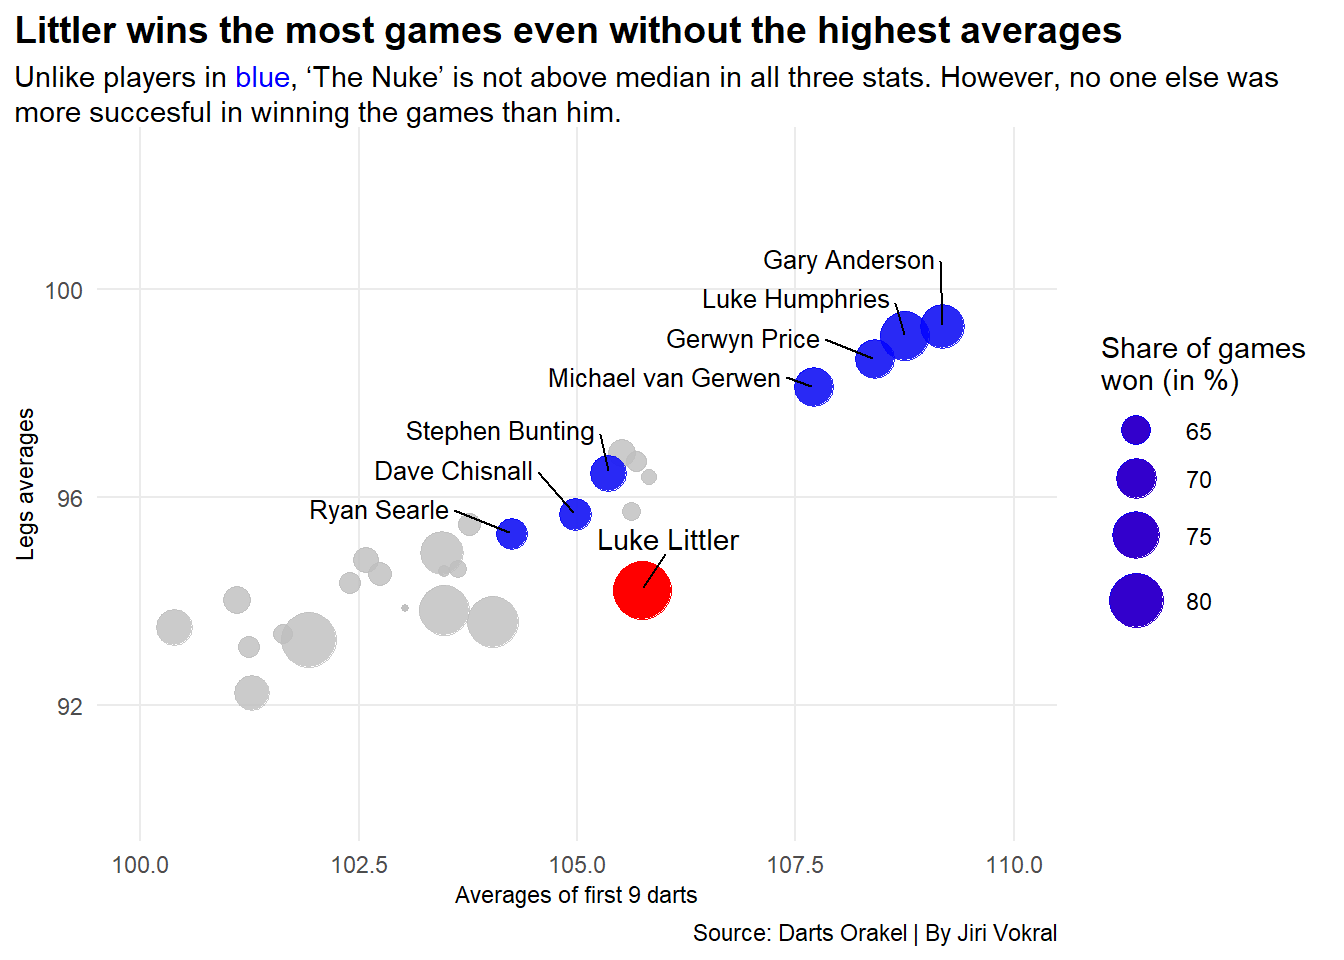
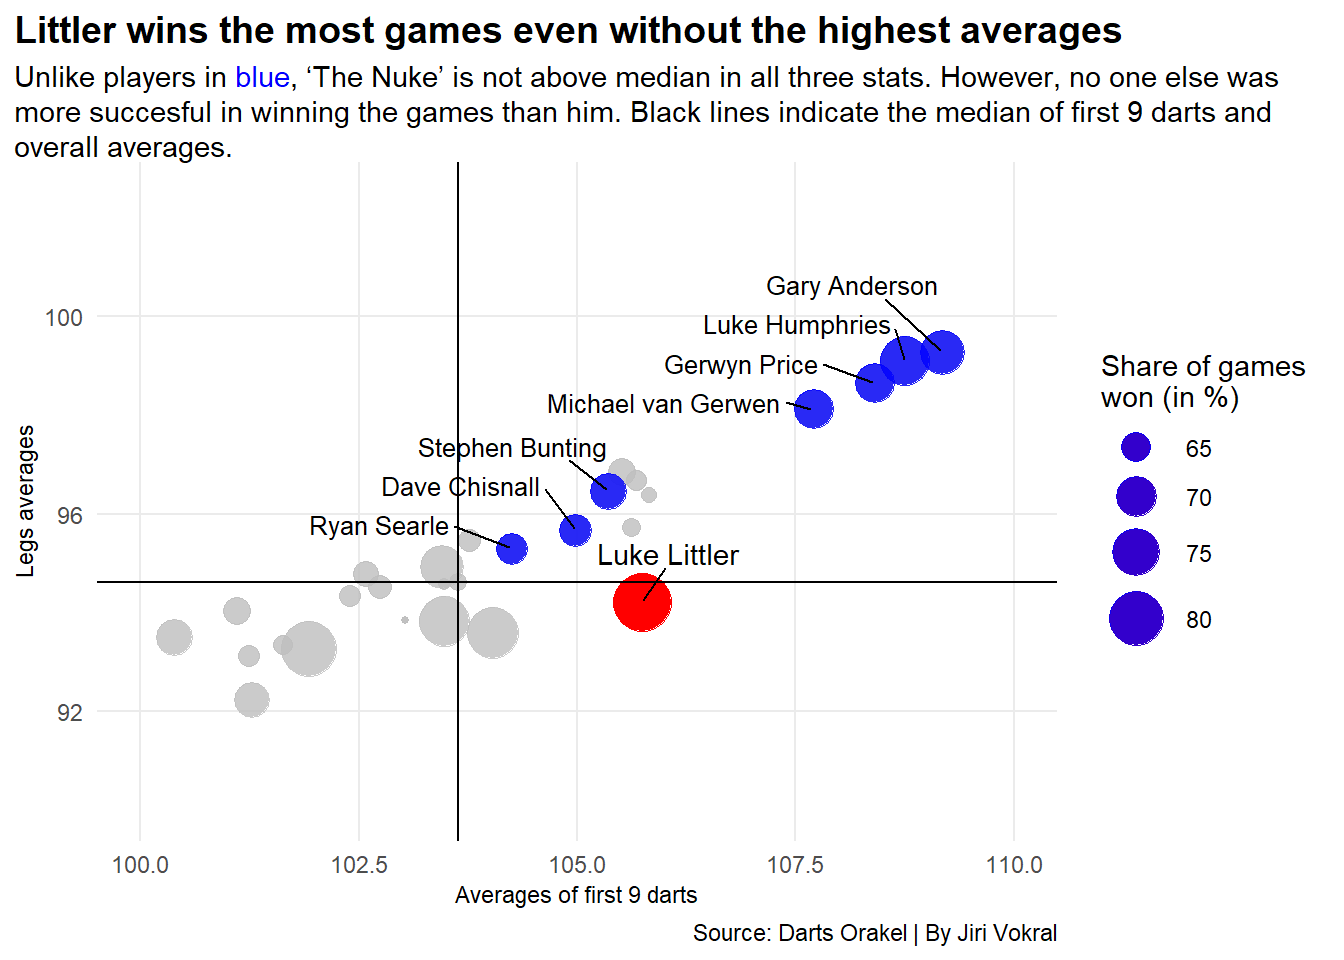
Update commit #4

diff --git a/posts/luke-littler-darts/index.html b/posts/luke-littler-darts/index.html
@@ -185,9 +185,9 @@ pre > code.sourceCode > span > a:first-child::before { text-decoration: underlin
 
 
 
-<p>“Triple twenty will leave him double ten. And he finishes it on double ten! Luke Littler by name, but right now arguably the biggest name in the world of darts. Littler takes the giant step into the World Championship final. He made it nineteen days shy of his 17th birthday, and tomorrow he could be the World Darts Champion!”</p>
-<p>At the turn of last year and this year, the entire world of darts learned to count on a new rising star. Luke Littler made it to the World Championship final at the age of 16. He had to go through all the rounds to reach the final as he was not seeded due to his position in the world rankings.</p>
-<p>The youngster with the nickname “The Nuke” was already good before the World Championship. And he continues to be in great form. Let’s take a look at the data from the end of March 2023 to the end of March 2024 and compare him with the 112 best players in the world.</p>
+<p>At the turn of last year and this year, millions of fans around the world heard on Sky Sports broadcast: “Triple twenty will leave him double ten. And he finishes it on double ten! Luke Littler by name, but right now arguably the biggest name in the world of darts. Littler takes the giant step into the World Championship final. He made it nineteen days shy of his 17th birthday, and tomorrow he could be the World Darts Champion!”</p>
+<p>The entire world of darts learned to count on a new rising star. Luke Littler made it to the World Championship final at the age of 16. He had to go through all of the rounds to reach the finals as he was not seeded due to his position in the world rankings.</p>
+<p>The youngster, with the nickname “The Nuke”, was already good before the World Championship, and he continues to be in great form. Data from the end of March 2023 to the end of March 2024, that compare him with the 112 best players in the world, show how good he actually was.</p>
 <div class="cell">
 <details class="code-fold">
 <summary>Code</summary>
@@ -246,16 +246,16 @@ pre > code.sourceCode > span > a:first-child::before { text-decoration: underlin
 </div>
 </div>
 </div>
-<p>He won more than 77 percent of those legs. That’s five percentage points more than world number one Humphries or six more than three-time world champion and world number two Michael van Gerwen. On the occasions when he went to the dartboard second, his success rate dropped to 52.67 percent. But that is the second-best result of all.</p>
+<p>He won more than 77 percent of those legs. That’s five percentage points more than world number one Luke Humphries and six more than three-time world champion and world number two Michael van Gerwen. Littler’s success rate dropped to 52.67 percent on the occasions when he went to the dartboard second. However, that is still the second-best result of all the players.</p>
 <p>“The Nuke” sent one opponent after another home at the World Championship. When he faced the legendary Raymond van Barneveld in the round of sixteen, the pundits didn’t give Littler much of a chance. But they were wrong. Littler defeated the former world number one and world champion 4:1.</p>
-<p>Even Brendan Dolan or world number eight and former world champion Rob Cross couldn’t send him home.</p>
-<p>Littler led 4-2 in the final. He became the darling of the fans, who chanted, “You’ve got school in the morning, school in the morning!”</p>
-<p>But in the end, Luke Humphries turned the dramatic finals around and became the World Champion and world number one. But Littler’s performance earned him an invitation to Premier League Darts, a select company of the best darts players who would meet in fifteen tournaments throughout the spring.</p>
+<p>Even Brendan Dolan and world number eight and former world champion Rob Cross couldn’t send him home.</p>
+<p>Littler led 4:2 in the final. He became the darling of the fans, who chanted, “You’ve got school in the morning, school in the morning!”</p>
+<p>But in the end, Luke Humphries turned the dramatic finals around and became the world champion and world number one. But Littler’s performance earned him an invitation to Premier League Darts, a select company of the best darts players who would meet in fifteen tournaments throughout the spring.</p>
 <p>In eleven tournaments so far, he has reached the finals four times and won twice. As a result, Littler currently leads the overall standings in the highly prestigious Premier League.</p>
 <p>So, is “The Nuke” the best player in the world right now?</p>
-<p>“No.&nbsp;No way,” Littler said when journalists asked him that question earlier this year. “You still got Luke Humphries in there, you still got Michael van Gerwen in there. I’m one of the best right now in terms of performance, but I’m not the best in the world,” he added.</p>
+<p>“No.&nbsp;No way,” Littler said when he was asked this question after one of the matches at the World Championship. “You still got Luke Humphries in there, you still got Michael van Gerwen in there. I’m one of the best right now in terms of performance, but I’m not the best in the world,” he added.</p>
 <p>Well.</p>
-<p>Littler had the highest winning percentage during the whole year. He played a total of 398 games (by far the most of all players, the second-highest result is 339), of which he won 333. This means that he won more than 83 percent of all his games.</p>
+<p>Littler had the highest winning percentage during the whole year. He played a total of 398 games (by far the most of all players, the second-highest result is 339), of which he won 333. This means that he won more than 83 percent of all his games (median among players who had average higher than 92 and won more than 60 percent of their games was 64.2 percent).</p>
 <div class="cell">
 <details class="code-fold">
 <summary>Code</summary>
@@ -308,26 +308,28 @@ pre > code.sourceCode > span > a:first-child::before { text-decoration: underlin
 <span id="cb2-47"><a href="#cb2-47" aria-hidden="true" tabindex="-1"></a>    ) <span class="sc">+</span></span>
 <span id="cb2-48"><a href="#cb2-48" aria-hidden="true" tabindex="-1"></a>  <span class="fu">scale_x_continuous</span>(<span class="at">limits =</span> <span class="fu">c</span>(<span class="dv">100</span>,<span class="dv">110</span>)) <span class="sc">+</span></span>
 <span id="cb2-49"><a href="#cb2-49" aria-hidden="true" tabindex="-1"></a>  <span class="fu">scale_y_continuous</span>(<span class="at">limits =</span><span class="fu">c</span>(<span class="dv">90</span>,<span class="fl">102.5</span>)) <span class="sc">+</span></span>
-<span id="cb2-50"><a href="#cb2-50" aria-hidden="true" tabindex="-1"></a>  <span class="fu">scale_size_continuous</span>(<span class="at">range =</span> <span class="fu">c</span>(<span class="dv">1</span>,<span class="dv">10</span>), <span class="at">name =</span> <span class="st">"Share of games </span><span class="sc">\n</span><span class="st">won (in %)"</span>) <span class="sc">+</span></span>
-<span id="cb2-51"><a href="#cb2-51" aria-hidden="true" tabindex="-1"></a>  <span class="fu">geom_text_repel</span>(</span>
-<span id="cb2-52"><a href="#cb2-52" aria-hidden="true" tabindex="-1"></a>    <span class="at">data=</span>luke_littler, </span>
-<span id="cb2-53"><a href="#cb2-53" aria-hidden="true" tabindex="-1"></a>    <span class="fu">aes</span>(<span class="at">x=</span>First_9_averages, <span class="at">y=</span>AVG, <span class="at">label=</span>Player), <span class="at">nudge_y =</span> <span class="dv">1</span>, <span class="at">nudge_x =</span> .<span class="dv">3</span>) <span class="sc">+</span></span>
-<span id="cb2-54"><a href="#cb2-54" aria-hidden="true" tabindex="-1"></a>  <span class="fu">geom_text_repel</span>(</span>
-<span id="cb2-55"><a href="#cb2-55" aria-hidden="true" tabindex="-1"></a>    <span class="at">data=</span>bubble_top2, </span>
-<span id="cb2-56"><a href="#cb2-56" aria-hidden="true" tabindex="-1"></a>    <span class="fu">aes</span>(<span class="at">x=</span>First_9_averages, <span class="at">y=</span>AVG, <span class="at">label=</span>Player), <span class="at">nudge_y =</span> .<span class="dv">72</span>, <span class="at">nudge_x =</span> <span class="sc">-</span><span class="fl">1.4</span>, <span class="at">size=</span><span class="fl">3.4</span>) <span class="sc">+</span></span>
-<span id="cb2-57"><a href="#cb2-57" aria-hidden="true" tabindex="-1"></a>  <span class="fu">theme_minimal</span>() <span class="sc">+</span></span>
-<span id="cb2-58"><a href="#cb2-58" aria-hidden="true" tabindex="-1"></a>   <span class="fu">labs</span>(</span>
-<span id="cb2-59"><a href="#cb2-59" aria-hidden="true" tabindex="-1"></a>    <span class="at">title=</span><span class="st">"Littler wins the most games even without the highest averages"</span>, </span>
-<span id="cb2-60"><a href="#cb2-60" aria-hidden="true" tabindex="-1"></a>    <span class="at">subtitle =</span> <span class="st">"Unlike players in &lt;span style = 'color:blue;'&gt;blue&lt;/span&gt;, 'The Nuke' is not above median in all three stats. However, no one else was more succesful in winning the games than him."</span>,</span>
-<span id="cb2-61"><a href="#cb2-61" aria-hidden="true" tabindex="-1"></a>    <span class="at">y=</span> <span class="st">"Legs averages"</span>, <span class="at">x =</span> <span class="st">"Averages of first 9 darts"</span>, <span class="at">caption=</span><span class="st">"Source: Darts Orakel | By Jiri Vokral"</span></span>
-<span id="cb2-62"><a href="#cb2-62" aria-hidden="true" tabindex="-1"></a>  ) <span class="sc">+</span> </span>
-<span id="cb2-63"><a href="#cb2-63" aria-hidden="true" tabindex="-1"></a>  <span class="fu">theme</span>(</span>
-<span id="cb2-64"><a href="#cb2-64" aria-hidden="true" tabindex="-1"></a>    <span class="at">plot.title =</span> <span class="fu">element_text</span>(<span class="at">size =</span> <span class="dv">14</span>, <span class="at">face =</span> <span class="st">"bold"</span>),</span>
-<span id="cb2-65"><a href="#cb2-65" aria-hidden="true" tabindex="-1"></a>    <span class="at">axis.title =</span> <span class="fu">element_text</span>(<span class="at">size =</span> <span class="fl">8.5</span>), </span>
-<span id="cb2-66"><a href="#cb2-66" aria-hidden="true" tabindex="-1"></a>    <span class="at">plot.subtitle =</span> <span class="fu">element_textbox_simple</span>(<span class="at">size=</span><span class="dv">11</span>), </span>
-<span id="cb2-67"><a href="#cb2-67" aria-hidden="true" tabindex="-1"></a>    <span class="at">panel.grid.minor =</span> <span class="fu">element_blank</span>(),</span>
-<span id="cb2-68"><a href="#cb2-68" aria-hidden="true" tabindex="-1"></a>    <span class="at">plot.title.position =</span> <span class="st">"plot"</span></span>
-<span id="cb2-69"><a href="#cb2-69" aria-hidden="true" tabindex="-1"></a>  )</span></code><button title="Copy to Clipboard" class="code-copy-button"><i class="bi"></i></button></pre></div>
+<span id="cb2-50"><a href="#cb2-50" aria-hidden="true" tabindex="-1"></a>  <span class="fu">geom_vline</span>(<span class="at">xintercept =</span> <span class="fl">103.64</span>) <span class="sc">+</span> </span>
+<span id="cb2-51"><a href="#cb2-51" aria-hidden="true" tabindex="-1"></a>  <span class="fu">geom_hline</span>(<span class="at">yintercept =</span> <span class="fl">94.61</span> ) <span class="sc">+</span></span>
+<span id="cb2-52"><a href="#cb2-52" aria-hidden="true" tabindex="-1"></a>  <span class="fu">scale_size_continuous</span>(<span class="at">range =</span> <span class="fu">c</span>(<span class="dv">1</span>,<span class="dv">10</span>), <span class="at">name =</span> <span class="st">"Share of games </span><span class="sc">\n</span><span class="st">won (in %)"</span>) <span class="sc">+</span></span>
+<span id="cb2-53"><a href="#cb2-53" aria-hidden="true" tabindex="-1"></a>  <span class="fu">geom_text_repel</span>(</span>
+<span id="cb2-54"><a href="#cb2-54" aria-hidden="true" tabindex="-1"></a>    <span class="at">data=</span>luke_littler, </span>
+<span id="cb2-55"><a href="#cb2-55" aria-hidden="true" tabindex="-1"></a>    <span class="fu">aes</span>(<span class="at">x=</span>First_9_averages, <span class="at">y=</span>AVG, <span class="at">label=</span>Player), <span class="at">nudge_y =</span> <span class="dv">1</span>, <span class="at">nudge_x =</span> .<span class="dv">3</span>) <span class="sc">+</span></span>
+<span id="cb2-56"><a href="#cb2-56" aria-hidden="true" tabindex="-1"></a>  <span class="fu">geom_text_repel</span>(</span>
+<span id="cb2-57"><a href="#cb2-57" aria-hidden="true" tabindex="-1"></a>    <span class="at">data=</span>bubble_top2, </span>
+<span id="cb2-58"><a href="#cb2-58" aria-hidden="true" tabindex="-1"></a>    <span class="fu">aes</span>(<span class="at">x=</span>First_9_averages, <span class="at">y=</span>AVG, <span class="at">label=</span>Player), <span class="at">nudge_y =</span> .<span class="dv">72</span>, <span class="at">nudge_x =</span> <span class="sc">-</span><span class="fl">1.4</span>, <span class="at">size=</span><span class="fl">3.4</span>) <span class="sc">+</span></span>
+<span id="cb2-59"><a href="#cb2-59" aria-hidden="true" tabindex="-1"></a>  <span class="fu">theme_minimal</span>() <span class="sc">+</span></span>
+<span id="cb2-60"><a href="#cb2-60" aria-hidden="true" tabindex="-1"></a>   <span class="fu">labs</span>(</span>
+<span id="cb2-61"><a href="#cb2-61" aria-hidden="true" tabindex="-1"></a>    <span class="at">title=</span><span class="st">"Littler wins the most games even without the highest averages"</span>, </span>
+<span id="cb2-62"><a href="#cb2-62" aria-hidden="true" tabindex="-1"></a>    <span class="at">subtitle =</span> <span class="st">"Unlike players in &lt;span style = 'color:blue;'&gt;blue&lt;/span&gt;, 'The Nuke' is not above median in all three stats. However, no one else was more succesful in winning the games than him. Black lines indicate the median of first 9 darts and overall averages."</span>,</span>
+<span id="cb2-63"><a href="#cb2-63" aria-hidden="true" tabindex="-1"></a>    <span class="at">y=</span> <span class="st">"Legs averages"</span>, <span class="at">x =</span> <span class="st">"Averages of first 9 darts"</span>, <span class="at">caption=</span><span class="st">"Source: Darts Orakel | By Jiri Vokral"</span></span>
+<span id="cb2-64"><a href="#cb2-64" aria-hidden="true" tabindex="-1"></a>  ) <span class="sc">+</span> </span>
+<span id="cb2-65"><a href="#cb2-65" aria-hidden="true" tabindex="-1"></a>  <span class="fu">theme</span>(</span>
+<span id="cb2-66"><a href="#cb2-66" aria-hidden="true" tabindex="-1"></a>    <span class="at">plot.title =</span> <span class="fu">element_text</span>(<span class="at">size =</span> <span class="dv">14</span>, <span class="at">face =</span> <span class="st">"bold"</span>),</span>
+<span id="cb2-67"><a href="#cb2-67" aria-hidden="true" tabindex="-1"></a>    <span class="at">axis.title =</span> <span class="fu">element_text</span>(<span class="at">size =</span> <span class="fl">8.5</span>), </span>
+<span id="cb2-68"><a href="#cb2-68" aria-hidden="true" tabindex="-1"></a>    <span class="at">plot.subtitle =</span> <span class="fu">element_textbox_simple</span>(<span class="at">size=</span><span class="dv">11</span>), </span>
+<span id="cb2-69"><a href="#cb2-69" aria-hidden="true" tabindex="-1"></a>    <span class="at">panel.grid.minor =</span> <span class="fu">element_blank</span>(),</span>
+<span id="cb2-70"><a href="#cb2-70" aria-hidden="true" tabindex="-1"></a>    <span class="at">plot.title.position =</span> <span class="st">"plot"</span></span>
+<span id="cb2-71"><a href="#cb2-71" aria-hidden="true" tabindex="-1"></a>  )</span></code><button title="Copy to Clipboard" class="code-copy-button"><i class="bi"></i></button></pre></div>
 </details>
 <div class="cell-output-display">
 <div>
@@ -337,8 +339,8 @@ pre > code.sourceCode > span > a:first-child::before { text-decoration: underlin
 </div>
 </div>
 </div>
-<p>As mentioned before, Littler made his presence felt at the PDC World Championships. Prior to this tournament, he had been hovering on the fringes of PDC and junior events. For example, he took over the final of the 2023 PDC World Youth Championships and defeated Gian van Veen 6:4 in sets.</p>
-<p>Media refer to Littler also as “180’s machine”. He had most of them thrown (869) in the past 12 months. But it should be remembered that “The Nuke” played the most games of any of the top 112 players in the world.</p>
+<p>Littler made his presence felt at the PDC World Championships. Prior to this tournament, he had been hovering on the fringes of PDC and junior events. For example, he took over the final of the 2023 PDC World Youth Championships and defeated Gian van Veen 6:4 in sets.</p>
+<p>Media refer to Littler also as “180’s machine”. He had most of them thrown (869) in the past 12 months. “The Nuke” also played the most games of any of the top 112 players in the world.</p>
 <div class="cell">
 <details class="code-fold">
 <summary>Code</summary>
@@ -387,7 +389,7 @@ pre > code.sourceCode > span > a:first-child::before { text-decoration: underlin
 <span id="cb3-43"><a href="#cb3-43" aria-hidden="true" tabindex="-1"></a>  <span class="fu">theme_minimal</span>() <span class="sc">+</span></span>
 <span id="cb3-44"><a href="#cb3-44" aria-hidden="true" tabindex="-1"></a>   <span class="fu">labs</span>(</span>
 <span id="cb3-45"><a href="#cb3-45" aria-hidden="true" tabindex="-1"></a>    <span class="at">title=</span><span class="st">"World Champions Humpries and Anderson consistently scored the highest"</span>, </span>
-<span id="cb3-46"><a href="#cb3-46" aria-hidden="true" tabindex="-1"></a>    <span class="at">subtitle =</span> <span class="st">"Littler could not get close to the &lt;span style = 'color:red;'&gt;best ones&lt;/span&gt; in both number of matches with 100+ average and scored maximums per match. Black lines indicate the median."</span>,</span>
+<span id="cb3-46"><a href="#cb3-46" aria-hidden="true" tabindex="-1"></a>    <span class="at">subtitle =</span> <span class="st">"Littler could not get close to the &lt;span style = 'color:blue;'&gt;best ones&lt;/span&gt; in both number of matches with 100+ average and scored maximums per match. Black lines indicate the median."</span>,</span>
 <span id="cb3-47"><a href="#cb3-47" aria-hidden="true" tabindex="-1"></a>    <span class="at">y=</span> <span class="st">"Share of matches with 100+ average (in %)"</span>, <span class="at">x =</span> <span class="st">"Number 180's made per match"</span>, <span class="at">caption=</span><span class="st">"Source: Darts Orakel | By Jiri Vokral"</span></span>
 <span id="cb3-48"><a href="#cb3-48" aria-hidden="true" tabindex="-1"></a>  ) <span class="sc">+</span> </span>
 <span id="cb3-49"><a href="#cb3-49" aria-hidden="true" tabindex="-1"></a>  <span class="fu">theme</span>(</span>
@@ -407,7 +409,7 @@ pre > code.sourceCode > span > a:first-child::before { text-decoration: underlin
 </div>
 </div>
 <p>On a per-game basis, Littler “only” threw 2.18 maximums per game, which puts him in 29th place in this statistic. Luke Humphries managed to score more than 4 per game.</p>
-<p>Littler managed het an average of more than 100 points in 22 percent of his matches. Two-time world champion Anderson did it in 45.59 percent of his games, and the oft-mentioned Humphries in almost 45 percent.</p>
+<p>Littler managed hit an average of more than 100 points in 22 percent of his matches. Two-time world champion Anderson did it in 45.59 percent of his games, and the oft-mentioned Humphries in almost 45 percent.</p>
 <p>In both stats, Littler is above the median, but well behind the best players.</p>
 <p>What still significantly drags down Littler is his checkout success rate. Any player can close his leg by scoring the appropriate double. For instance, if a player has 40 left, he can close the leg with a double 20.</p>
 <div class="cell">
@@ -430,7 +432,7 @@ pre > code.sourceCode > span > a:first-child::before { text-decoration: underlin
 <span id="cb4-15"><a href="#cb4-15" aria-hidden="true" tabindex="-1"></a>  <span class="fu">theme_minimal</span>() <span class="sc">+</span></span>
 <span id="cb4-16"><a href="#cb4-16" aria-hidden="true" tabindex="-1"></a>   <span class="fu">labs</span>(</span>
 <span id="cb4-17"><a href="#cb4-17" aria-hidden="true" tabindex="-1"></a>    <span class="at">title=</span><span class="st">"'The Nuke' should work on doubles this year"</span>, </span>
-<span id="cb4-18"><a href="#cb4-18" aria-hidden="true" tabindex="-1"></a>    <span class="at">subtitle =</span> <span class="st">"Checkouts went pretty well for Littler, but he's trailing the best five. However, among currently top ten ranked players, he is in 7th place. 'The Nuke' is currently number 26 in the world."</span>,</span>
+<span id="cb4-18"><a href="#cb4-18" aria-hidden="true" tabindex="-1"></a>    <span class="at">subtitle =</span> <span class="st">"Checkouts went pretty well for Littler, but he's trailing the best five. However, among currently top ten ranked players, he is in 7th place. 'The Nuke' is currently world number 26."</span>,</span>
 <span id="cb4-19"><a href="#cb4-19" aria-hidden="true" tabindex="-1"></a>    <span class="at">y=</span> <span class="st">"Checkout percentage"</span>, <span class="at">x =</span> <span class="st">""</span>, <span class="at">caption=</span><span class="st">"Source: Darts Orakel | By Jiri Vokral"</span></span>
 <span id="cb4-20"><a href="#cb4-20" aria-hidden="true" tabindex="-1"></a>  ) <span class="sc">+</span> </span>
 <span id="cb4-21"><a href="#cb4-21" aria-hidden="true" tabindex="-1"></a>  <span class="fu">theme</span>(</span>
@@ -450,9 +452,9 @@ pre > code.sourceCode > span > a:first-child::before { text-decoration: underlin
 </div>
 </div>
 <p>However, even top players sometimes fall behind in checkouts.</p>
-<p>Among the top 112 players who have played at least 120 games, Littler is ranked 15th in this stat.</p>
-<p>His figure was significantly higher than, for example, world number four Nathan Aspinall (37.66 percent), world number eight and former world champion Peter Wright (36.86 percent), or world number nine Dimitri Van den Bergh (34.91).</p>
-<p>So, was Luke Littler the best darts player in the past 12 months? A little bit, yes, but much more like no.</p>
+<p>Littler is 15th best among the top 112 players who have played at least 120 games checkouts.</p>
+<p>His figure was significantly higher than, for example, world number four Nathan Aspinall (37.66 percent), world number eight and former world champion Peter Wright (36.86 percent), or world number nine Dimitri Van den Bergh (34.91 percent).</p>
+<p>So, was Luke Littler the best darts player in the past 12 months? A little bit, yes, but more like no.</p>
 <p>Some of his stats are quite breathtaking, especially considering his age and lack of experience. In other stats he is close to the best players in the world, but still behind them.</p>
 <p>The next twelve months, when “The Nuke” will be competing against the best regularly, will tell us more. The 17-year-old Englishman is proving just what he is capable of in this year’s Premier League Darts…</p>
 

diff --git a/index.html b/index.html
@@ -205,7 +205,7 @@ window.Quarto = {
 
 <div class="quarto-listing quarto-listing-container-default" id="listing-listing">
 <div class="list quarto-listing-default">
-<div class="quarto-post image-right" data-index="0" data-categories="" data-listing-date-sort="1713070800000" data-listing-file-modified-sort="1712975233902" data-listing-date-modified-sort="NaN" data-listing-reading-time-sort="10" data-listing-word-count-sort="1972">
+<div class="quarto-post image-right" data-index="0" data-categories="" data-listing-date-sort="1713070800000" data-listing-file-modified-sort="1713049116083" data-listing-date-modified-sort="NaN" data-listing-reading-time-sort="11" data-listing-word-count-sort="2026">
 <div class="thumbnail">
 <p><a href="./posts/luke-littler-darts/index.html" class="no-external"></a></p><a href="./posts/luke-littler-darts/index.html" class="no-external">
 <p><img src="./posts/luke-littler-darts/image.png" class="thumbnail-image"></p>
@@ -222,7 +222,7 @@ window.Quarto = {
 
 </div>
 <div class="listing-description">
-<a href="./posts/luke-littler-darts/index.html" class="no-external">“Triple twenty will leave him double ten. And he finishes it on double ten! Luke Littler by name, but right now arguably the biggest name in the world of darts. Littler…</a>
+<a href="./posts/luke-littler-darts/index.html" class="no-external">At the turn of last year and this year, millions of fans around the world heard on Sky Sports broadcast: “Triple twenty will leave him double ten. And he finishes it on…</a>
 </div>
 </div>
 <div class="metadata">
